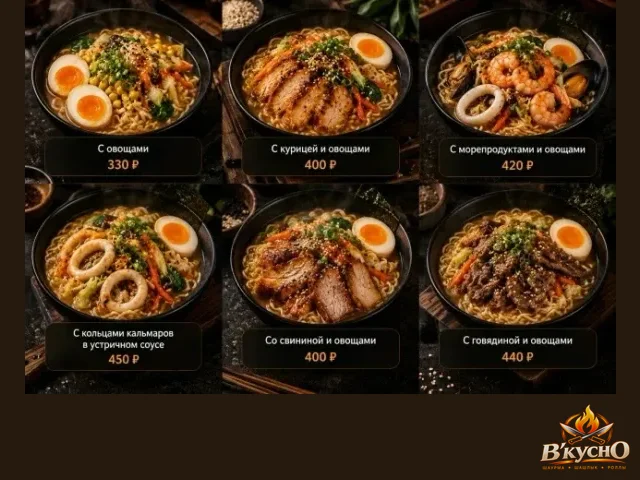
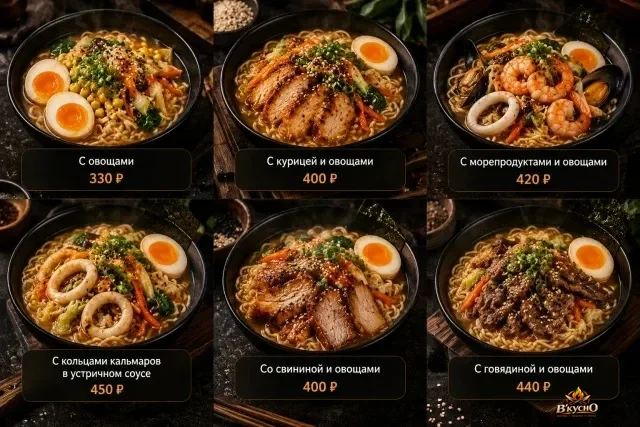
Лапша и рис: исходные размеры фото, знак меньше и не закрывает подписи

diff --git a/scripts/apply-watermark.js b/scripts/apply-watermark.js
@@ -2,14 +2,14 @@
 // Оригиналы не изменяются, поэтому команду можно безопасно запускать повторно: node scripts/apply-watermark.js
 const fs = require('fs');
 const path = require('path');
-const { apply, PAD_SLUGS } = require('../server/lib/watermark');
+const { apply, ORIGINAL_SIZE_SLUGS } = require('../server/lib/watermark');
 const { db } = require('../server/db');
 
 (async () => {
   const dir = path.join(__dirname, '..', 'assets', 'menu-originals');
   const out = path.join(__dirname, '..', 'public', 'menu');
   const files = fs.readdirSync(dir).filter(f => f.endsWith('.webp'));
-  for (const f of files) await apply(path.join(dir, f), path.join(out, f), { pad: PAD_SLUGS.has(f.replace(/\.webp$/, '')) });
+  for (const f of files) await apply(path.join(dir, f), path.join(out, f), { original: ORIGINAL_SIZE_SLUGS.has(f.replace(/\.webp$/, '')) });
   db.prepare("UPDATE products SET updated_at = strftime('%Y-%m-%dT%H:%M:%fZ','now') WHERE image LIKE '/menu/%'").run(); // сброс кэша фото
   console.log('Водяной знак нанесён на фото:', files.length);
 })();

diff --git a/scripts/import-photos.js b/scripts/import-photos.js
@@ -42,7 +42,7 @@ for (const i of src) if (i.photo && !byTitle.has(norm(i.title))) byTitle.set(nor
       const r = await fetch(hit.photo.replace('{size}', 'orig'), { headers: { 'User-Agent': 'Mozilla/5.0' } });
       if (!r.ok) throw new Error('HTTP ' + r.status);
       await sharp(Buffer.from(await r.arrayBuffer())).rotate().resize({ width: 900, height: 900, fit: 'inside', withoutEnlargement: true }).webp({ quality: 85 }).toFile(orig);
-      await watermark.apply(orig, file, { pad: watermark.PAD_SLUGS.has(p.slug) });
+      await watermark.apply(orig, file, { original: watermark.ORIGINAL_SIZE_SLUGS.has(p.slug) });
       db.prepare("UPDATE products SET image = ?, updated_at = strftime('%Y-%m-%dT%H:%M:%fZ','now') WHERE id = ?").run('/menu/' + p.slug + '.webp', p.id);
       ok++;
     } catch (e) { miss.push(p.name + ' (ошибка загрузки: ' + e.message + ')'); }

diff --git a/scripts/import-user-photos.js b/scripts/import-user-photos.js
@@ -34,7 +34,7 @@ const MAP = {
       if (!p) { console.error('НЕ НАЙДЕНО блюдо:', name); process.exitCode = 1; continue; }
       const orig = path.join(__dirname, '..', 'assets', 'menu-originals', p.slug + '.webp'); // оригинал без знака
       await sharp(path.join(dir, num + '.jpg')).rotate().resize({ width: 900, withoutEnlargement: true }).webp({ quality: 85 }).toFile(orig);
-      await watermark.apply(orig, path.join(__dirname, '..', 'public', 'menu', p.slug + '.webp'), { pad: watermark.PAD_SLUGS.has(p.slug) });
+      await watermark.apply(orig, path.join(__dirname, '..', 'public', 'menu', p.slug + '.webp'), { original: watermark.ORIGINAL_SIZE_SLUGS.has(p.slug) });
       db.prepare("UPDATE products SET image = ?, updated_at = strftime('%Y-%m-%dT%H:%M:%fZ','now') WHERE id = ?").run('/menu/' + p.slug + '.webp', p.id);
       n++;
     }

diff --git a/README.md b/README.md
@@ -46,5 +46,5 @@ npm test                      # тесты бизнес-логики (31)
 
 ## Водяной знак на фото блюд
 Исходные фото хранятся в `assets/menu-originals/`, готовые (с знаком, пропорции 4:3) — в `public/menu/`. Знак: `assets/watermark-source.png`.
-Заново нанести знак на все фото: `node scripts/apply-watermark.js` (оригиналы не меняются). Размер и отступ — в `server/lib/watermark.js`.
+Заново нанести знак на все фото: `node scripts/apply-watermark.js` (оригиналы не меняются). Размер и отступ — в `server/lib/watermark.js`. Фото раздела «Лапша и рис» остаются в исходных размерах, знак на них меньше (чтобы не закрывать подписи цен).
 Фото, загруженные в админке («Меню → Изменить блюдо → Фото»), получают знак автоматически.
